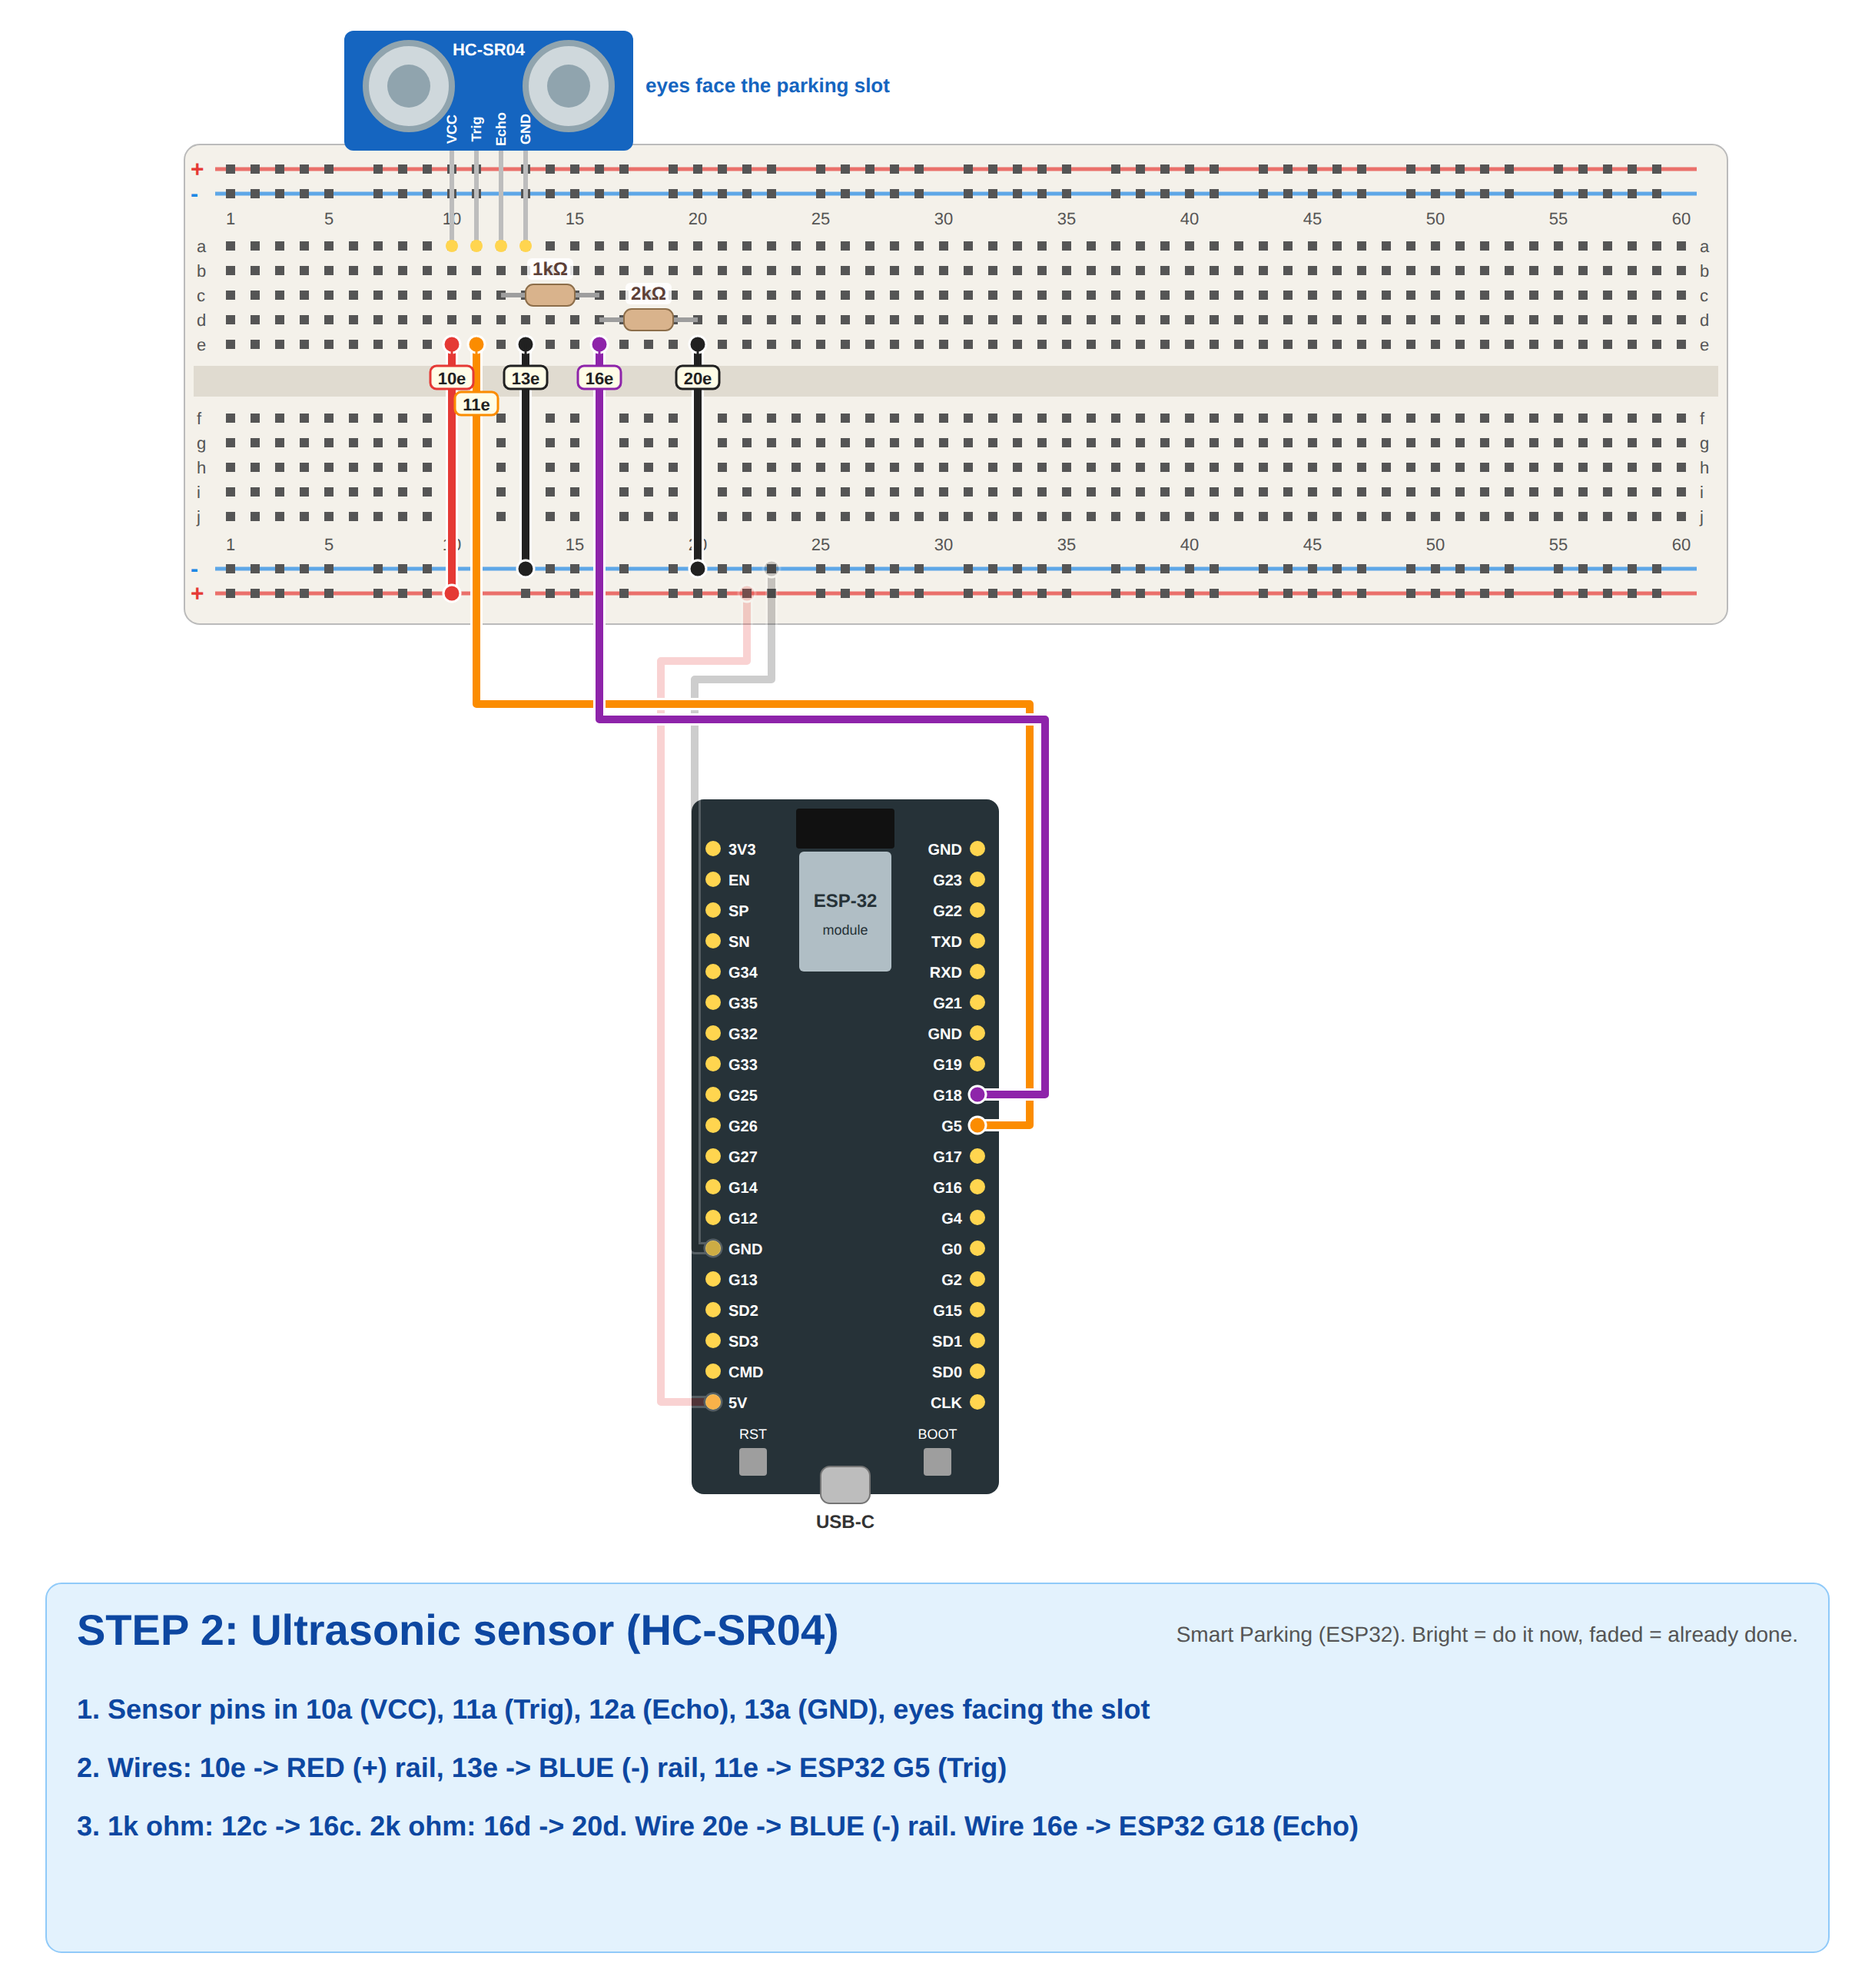
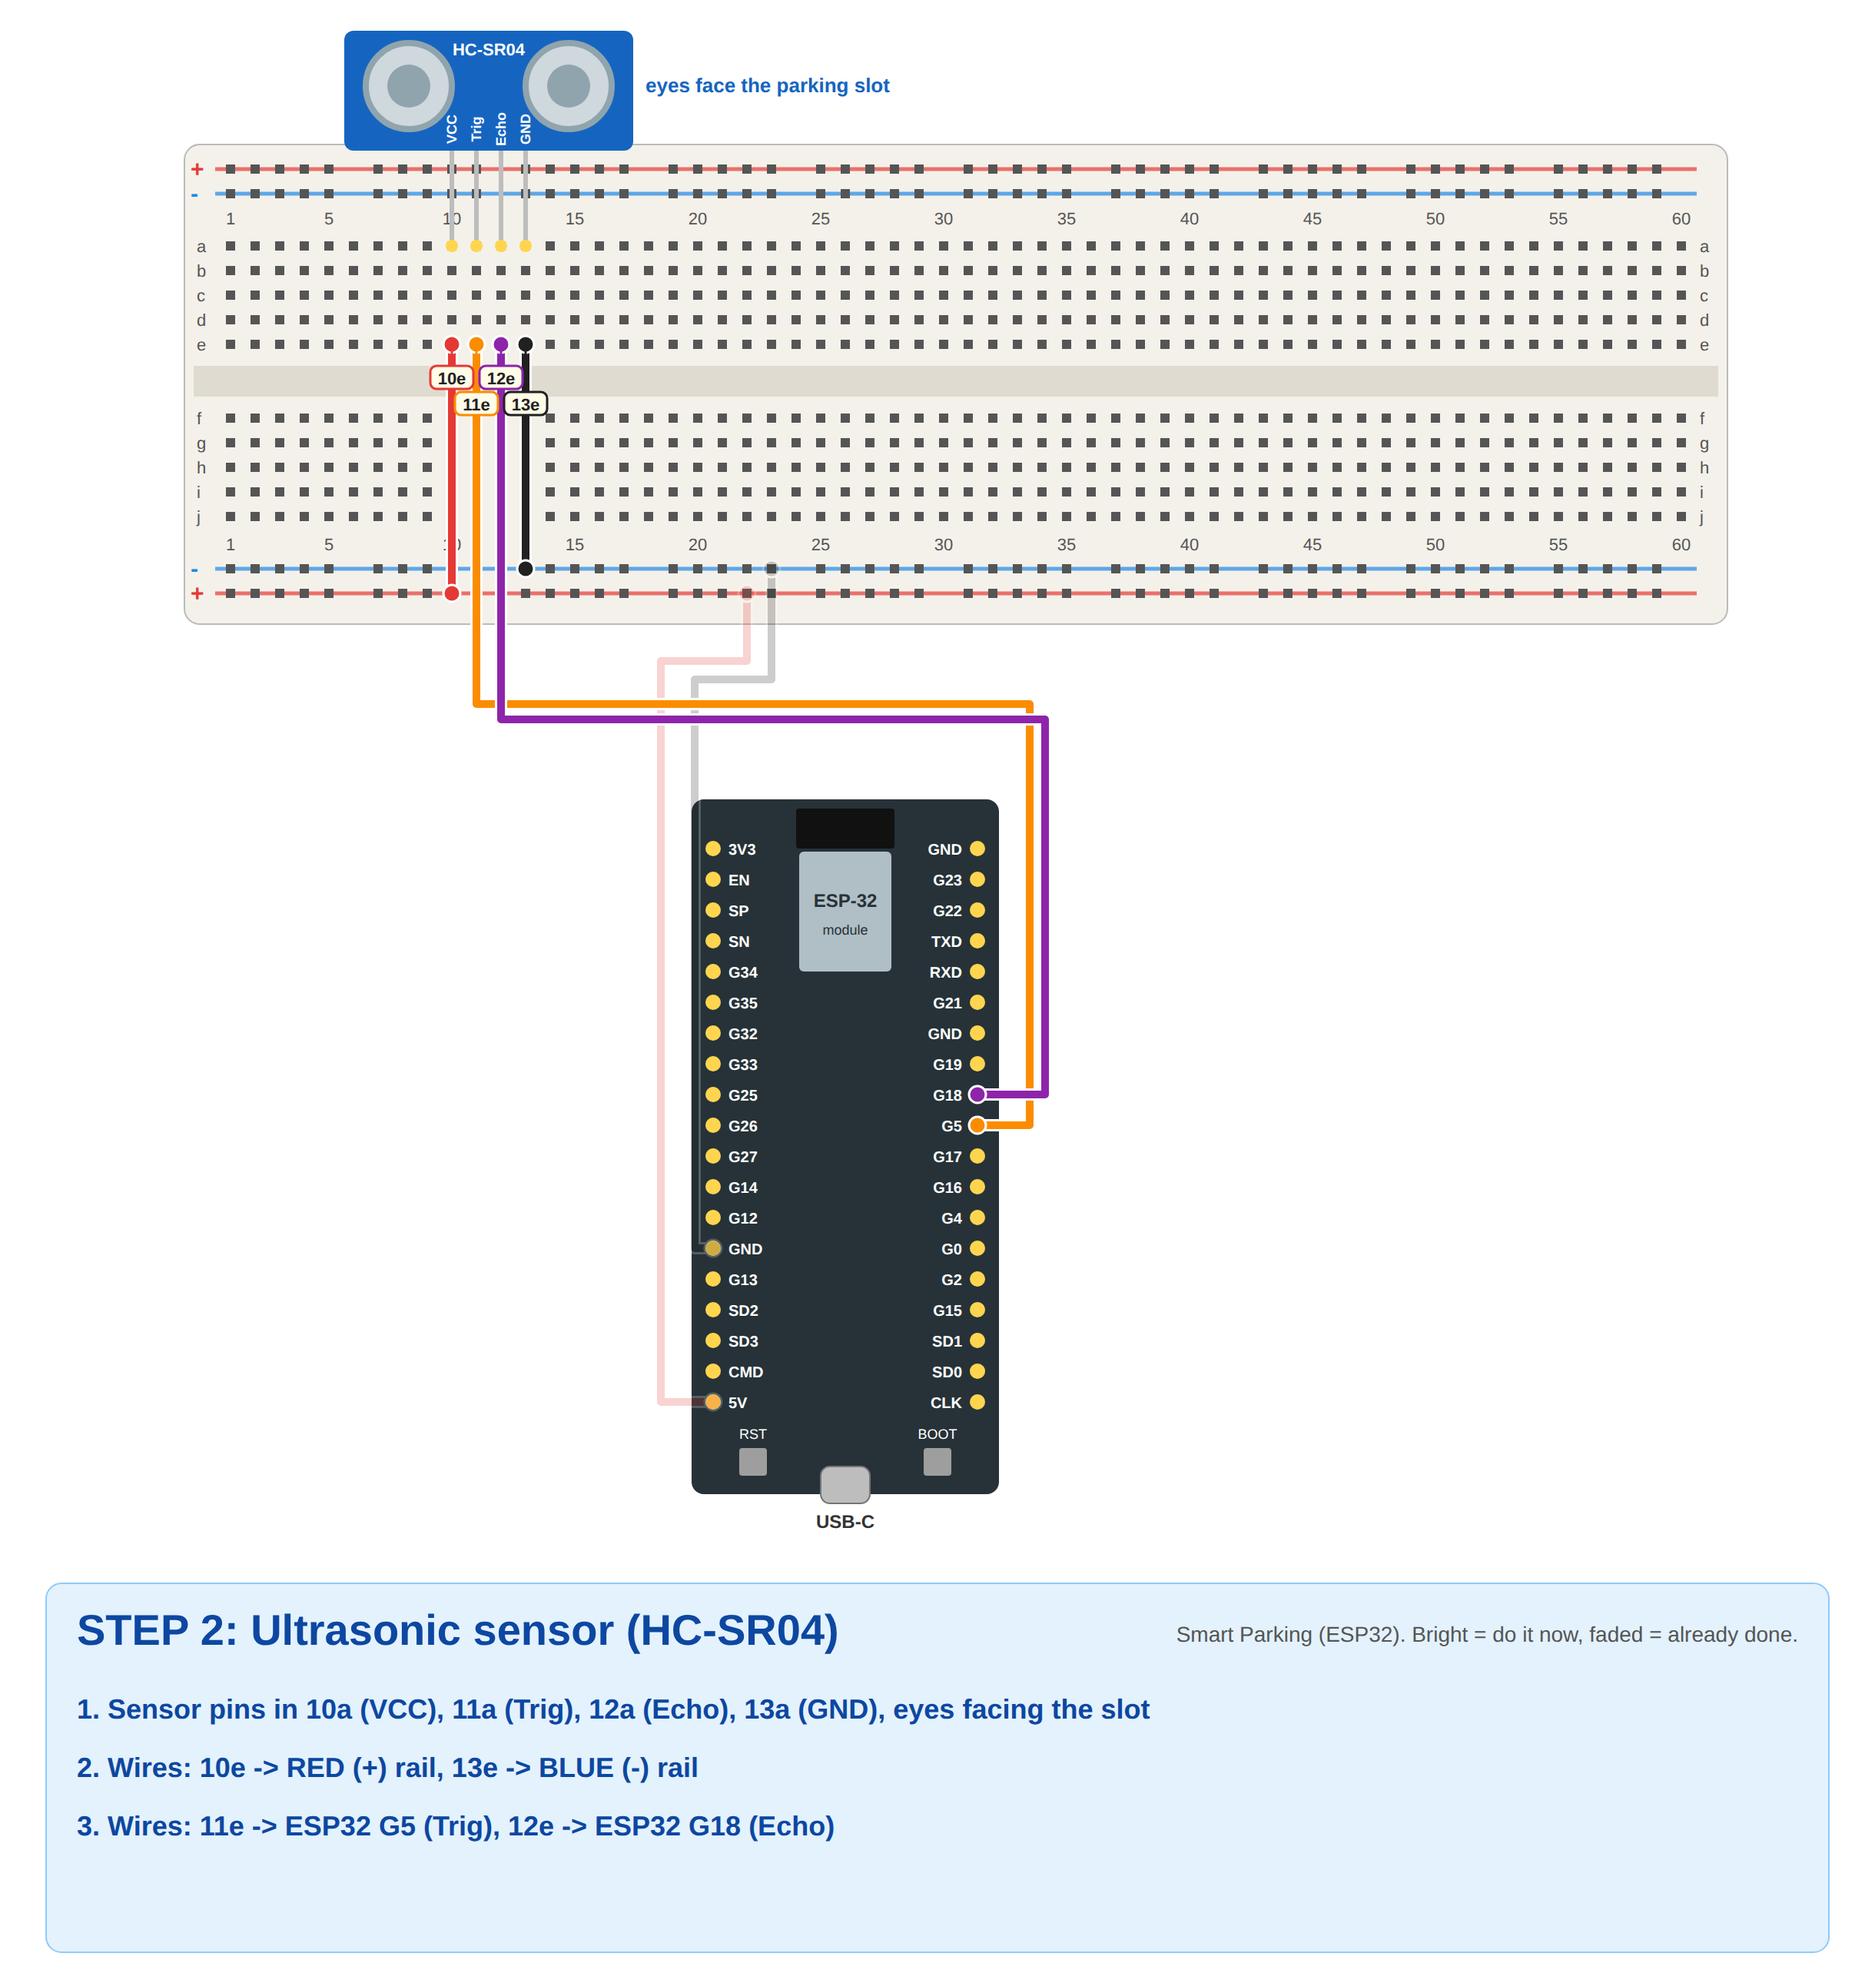
Smart parking: no-resistor version (LED drive limited in code, Echo direct)
Claude-Session: https://claude.ai/code/session_017mzeTBZxbqkd2UA263mGoZ

Changed region(s): [[0.0623, 0.8682, 0.7164, 0.9302], [0.2492, 0.155, 0.4049, 0.3721], [0.2803, 0.124, 0.3115, 0.155]]

diff --git a/Exam_Problems/smart_parking/README.md b/Exam_Problems/smart_parking/README.md
@@ -21,9 +21,9 @@ How each requirement is met:
 
 ## Components
 - ESP32 DevKit (**classic ESP32**: ESP32-WROOM/DevKit V1. ESP32-S3/C3 don't have Bluetooth Classic.)
-- HC-SR04 ultrasonic sensor + **1 kΩ and 2 kΩ** resistors (Echo voltage divider). If you have no 2 kΩ, use two 1 kΩ in series.
+- HC-SR04 ultrasonic sensor
 - SG90 servo
-- 1 LED + **220 Ω** resistor
+- 1 LED (green). **No resistors are needed.** The code limits the LED pin current (`GPIO_DRIVE_CAP_0`, about 5 mA).
 - LCD 16x2 with I2C backpack
 - Breadboard, jumper wires (male-female for the ESP32 and LCD)
 
@@ -37,8 +37,8 @@ How each requirement is met:
 | HC-SR04 | VCC | + rail (5V) |
 | HC-SR04 | GND | − rail |
 | HC-SR04 | Trig | **G5** |
-| HC-SR04 | Echo | 1 kΩ → **G18**, and 2 kΩ from G18 to GND |
-| LED | long leg (+) through 220 Ω | **G4** |
+| HC-SR04 | Echo | **G18** (direct) |
+| LED | long leg (+) | **G4** (direct, no resistor) |
 | LED | short leg (−) | − rail |
 | Servo | brown | − rail |
 | Servo | red | + rail |
@@ -54,13 +54,19 @@ Board pin order (antenna at the top, USB-C at the bottom):
 
 ⚠ Never use SD2, SD3, CMD, SD0, SD1 or CLK. They're connected to the board's flash memory.
 
+### About not using resistors
+- **LED:** normally needs a 220 Ω resistor. Here the code sets the G4 pin to its weakest drive strength
+  (`gpio_set_drive_capability(..., GPIO_DRIVE_CAP_0)`), which keeps the current low. The LED is a bit dimmer but safe.
+- **Echo:** the HC-SR04 Echo outputs 5V and the ESP32 is a 3.3V chip. Connecting it directly is very common in
+  ESP32 tutorials and works, but it's above the official rating. If you later get resistors, add the 1 kΩ / 2 kΩ divider.
+
 ## Step-by-step breadboard pictures
 Bright = do it now, faded = already done. Yellow tags = exact hole (`10a` = column 10, row a).
 
 | Step | |
 |------|---|
 | 1. Power | ![](steps/step1.png) |
-| 2. Ultrasonic + divider | ![](steps/step2.png) |
+| 2. Ultrasonic | ![](steps/step2.png) |
 | 3. LED | ![](steps/step3.png) |
 | 4. Servo | ![](steps/step4.png) |
 | 5. LCD | ![](steps/step5.png) |
@@ -111,7 +117,7 @@ Bright = do it now, faded = already done. Yellow tags = exact hole (`10a` = colu
 ## Troubleshooting
 | Problem | Fix |
 |---------|-----|
-| Always AVAILABLE | Check Trig = G5, Echo = G18 (through the 1k), VCC = 5V (not 3V3) |
+| Always AVAILABLE | Check Trig = G5, Echo = G18, VCC = 5V (not 3V3) |
 | Always OCCUPIED | Something is in front of the sensor, or `OCCUPIED_CM` is too big |
 | `BluetoothSerial.h` error / "Bluetooth not enabled" | Board must be **ESP32 Dev Module** (classic ESP32), not S3/C3 |
 | ESP32_Parking not in the app list | Pair it first in phone Settings → Bluetooth |
